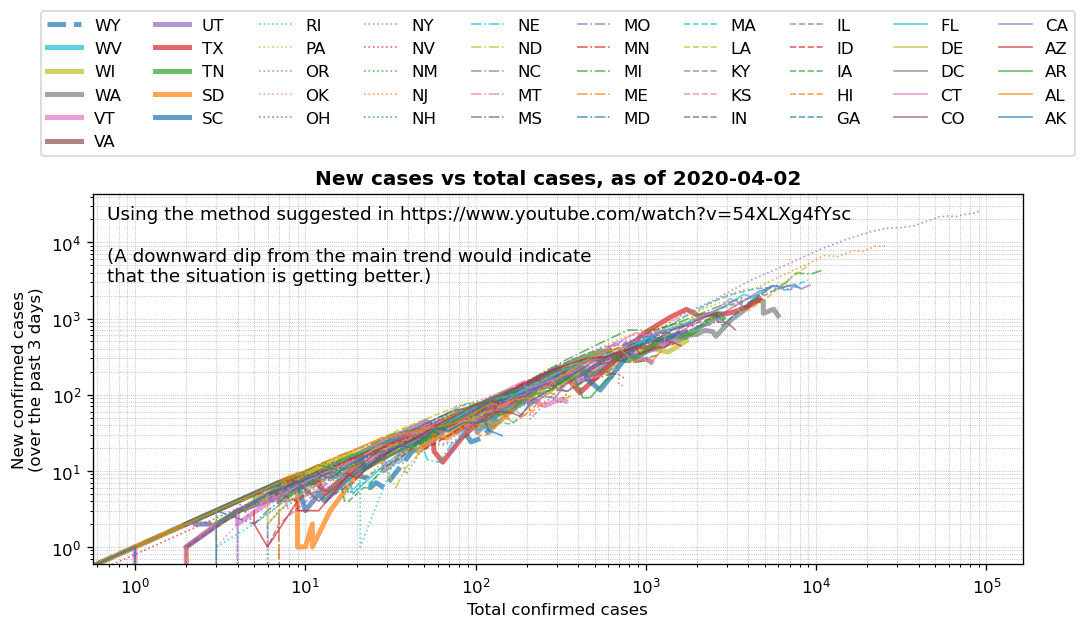
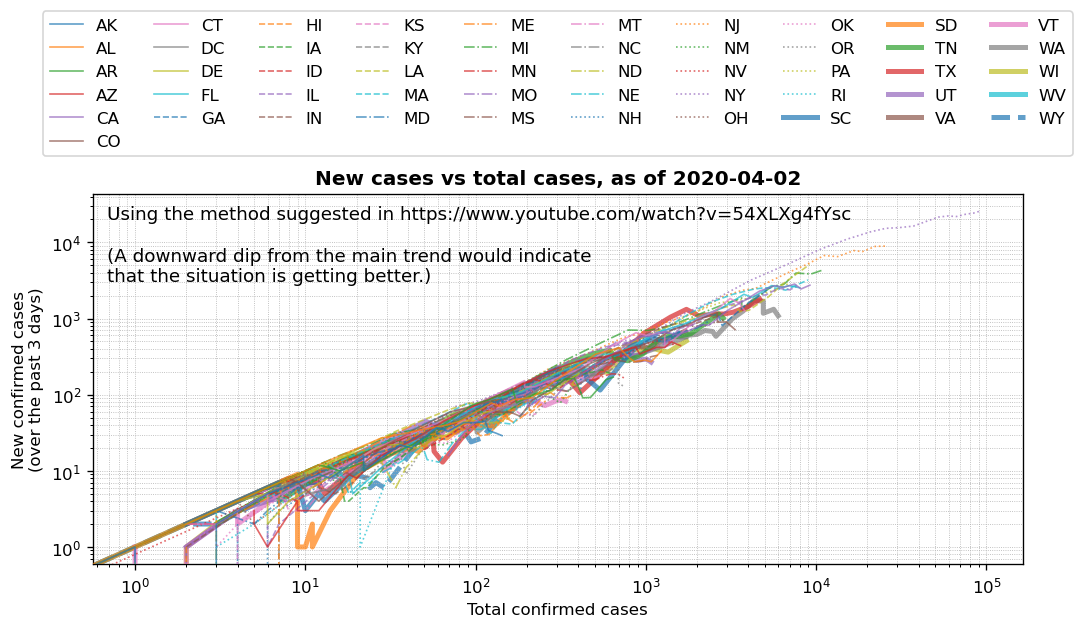
Adjust line order and legend order

diff --git a/scripts/Daily_new_cases_vs_total_cases.py b/scripts/Daily_new_cases_vs_total_cases.py
@@ -16,8 +16,8 @@ n = 3  # time window (unit: days) to calculate new cases
 linespecs = pu.get_linespecs(range_linewidth=[1,3,5])
 
 plt.figure(figsize=(10, 4), dpi=120)
-for j in range(len(trend_df.columns), 0, -1):
-    state = trend_df.columns[j - 1]
+for j in range(len(trend_df.columns)):
+    state = trend_df.columns[j]
     state_data = np.array(trend_df[state])
     total_cases = state_data[n:]
     new_cases_over_last_n_days = state_data[n:] - state_data[:-n]
@@ -26,7 +26,8 @@ for j in range(len(trend_df.columns), 0, -1):
         new_cases_over_last_n_days,
         label=state,
         alpha=0.7,
-        **linespecs[j - 1]
+        zorder=len(trend_df.columns) - j,
+        **linespecs[j]
     )
 # END FOR
 
